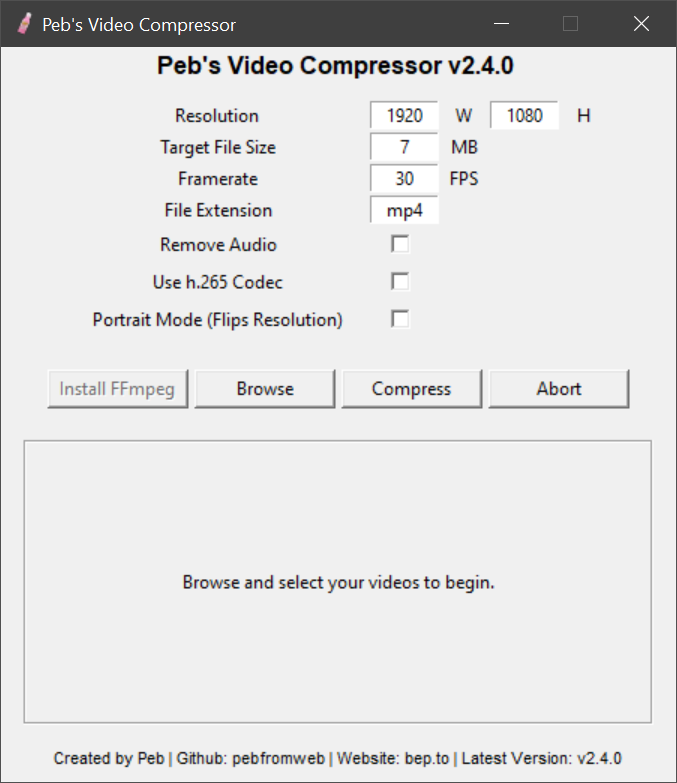
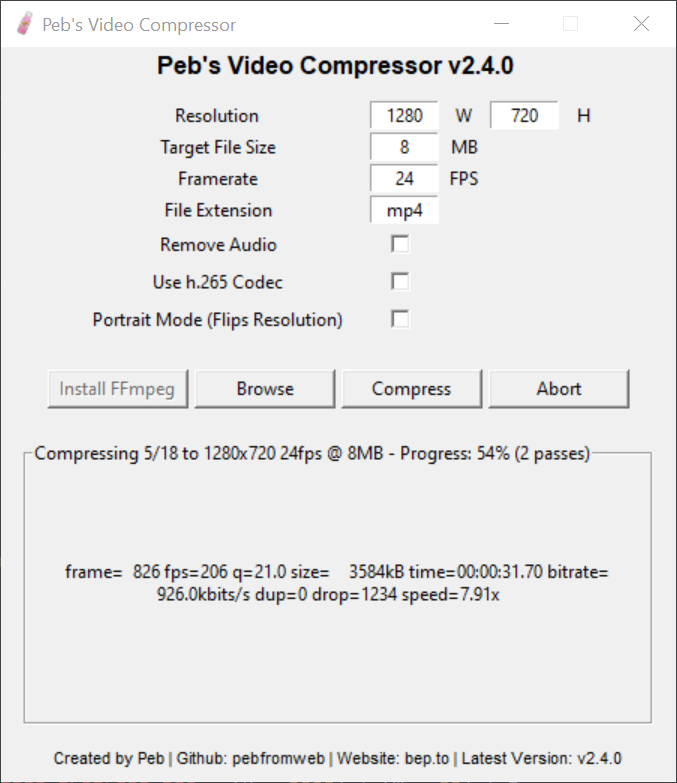
Bug fixes and cleanup

diff --git a/PebsVideoCompressor.py b/PebsVideoCompressor.py
@@ -7,10 +7,11 @@ from pathlib import Path
 
 class App:
 	def __init__(self, root):
+		sys.setrecursionlimit(1000000)
 		# Version fetching
 		self.author = 'Peb'
 		self.fetch_url = 'https://bep.to/downloads/pvc_version.txt'
-		self.cur_version = 'v2.4.0'
+		self.cur_version = 'v2.4.1'
 		self.version = self.cur_version
 		self.latest_version = 'Error'
 		self.outdated = self.fetch_version()
@@ -32,18 +33,18 @@ class App:
 		self.app_dir = os.getcwd()
 
 		# Compression default properties
-		self.w = '1920'
-		self.h = '1080'
-		self.fps = '30'
-		self.size = '7'
+		self.w = '1280'
+		self.h = '720'
+		self.fps = '24'
+		self.size = '8'
 		self.extension = 'mp4'
 
 		# Compression desired properties
-		self.desired_w = '1920'
-		self.desired_h = '1080'
-		self.desired_fps = '30'
-		self.desired_size = 7
-		self.desired_extension = ''
+		self.desired_w = self.w
+		self.desired_h = self.h
+		self.desired_fps = self.fps
+		self.desired_size = self.size
+		self.desired_extension = self.extension
 
 		# Compression output
 		self.proc = None
@@ -153,7 +154,7 @@ class App:
 		self.spacer_2.pack()
 
 		# Output
-		self.output_frame = LabelFrame(root, width = 420, height = 190)
+		self.output_frame = LabelFrame(root, text = 'Output', width = 420, height = 190)
 		self.output_frame.pack()
 		self.output_frame.pack_propagate(0)
 
@@ -257,7 +258,6 @@ class App:
 	def move_ffmpeg(self):
 		if self.os == 'Windows':
 			files = self.get_files()
-
 			found_files = False
 
 			for name in files:
@@ -347,7 +347,7 @@ class App:
 
 		print('PVC: Video duration: ' + str(origin_duration_s))
 
-		target_audio_bitrate_kbit_s = 64000
+		target_audio_bitrate_kbit_s = 128000
 
 		print(f'PVC: Set file size: {self.desired_size}MB')
 
@@ -386,19 +386,22 @@ class App:
 
 	def update_output(self):
 		line = self.proc.stdout.readline()
-		print(line)
+		# print(line)
 
 		if self.aborted:
-			self.output_field.configure(text = 'Aborted!\nThis may be due to too many duplicate frames or a manual abort. If you did not manually abort compression, try matching the framerate to the original video.')
+			self.output_frame.configure(text = 'Aborted!')
+			self.output_field.configure(text = 'Compression aborted.')
 			self.is_compressing = False
 			self.cur_queue = 0
 		elif 'failed' in line:
+			self.output_frame.configure(text = 'Failed!')
 			self.output_field.configure(text = f'Video {self.cur_queue + 1}/{len(self.files)} failed!\nTry again with different settings.')
 			self.is_compressing = False
 			self.cur_queue = 0
 		elif self.proc.poll() or line == '':
 			if self.cur_queue + 1 == len(self.files):
-				self.output_field.configure(text = f'Completed!\nVideo(s) can be found in the Output folder.')
+				self.output_frame.configure(text = 'Done!')
+				self.output_field.configure(text = f'Video(s) can be found in the Output folder.')
 				self.is_compressing = False
 				self.cur_queue = 0
 
@@ -434,8 +437,10 @@ class App:
 
 			self.cur_video_progress_sec = (h * 3600) + (m * 60) + s
 			self.cur_video_progress_percent = int((self.cur_video_progress_sec / self.cur_video_length) * 100)
-
-			self.output_field.configure(text = f'Compressing video {self.cur_queue + 1}/{len(self.files)} to {self.desired_w}x{self.desired_h} {self.desired_fps}fps @ {self.desired_size}MB\nProgress: {self.cur_video_progress_percent}% (2 passes)\nFFMPEG Output\n{str(line)}', wraplength=370)
+			self.cur_video_progress_percent = min(100, max(0, self.cur_video_progress_percent))
+			self.output_frame.configure(text = f'Output')
+			# self.output_field.configure(text = f'{str(line)}', wraplength=370)
+			self.output_field.configure(text = f'Compressing {self.cur_queue + 1}/{len(self.files)} to {self.desired_w}x{self.desired_h} {self.desired_fps}fps @ {self.desired_size}MB\nProgress: {self.cur_video_progress_percent}% (2 passes)')
 			root.update()
 			root.after(1, self.update_output())
 
